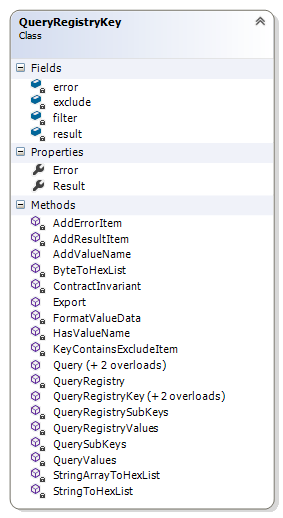
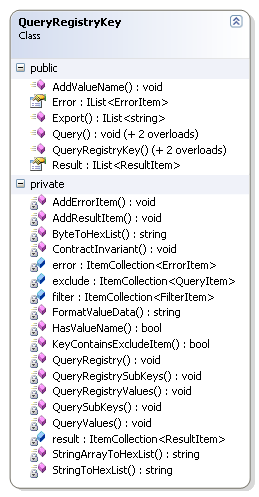
Added class diagram, changed layout for diagram

Changed region(s): [[0.0309, 0.0, 0.9884, 0.996], [0.6486, 0.2414, 0.7722, 0.332], [0.7722, 0.3018, 0.8649, 0.332]]

diff --git a/Guson.Registry/ReadOnlyDictionary.cs b/Guson.Registry/ReadOnlyDictionary.cs
@@ -19,7 +19,7 @@ namespace Guson.Registry
     /////// <typeparam name="TValue">The type of the values in the dictionary.</typeparam>
     /////// <remarks>
     /////// Class Diagram:
-    /////// <p><img src="..\images\ReadOnlyDictionaryNET45.png" alt="ReadOnlyDictionary Class Diagram" /></p>
+    /////// <p><img src="..\images\ReadOnlyDictionary.png" alt="ReadOnlyDictionary Class Diagram" /></p>
     /////// References:
     /////// <ul>
     ///////   <li><see href="http://msdn.microsoft.com/en-us/library/hh136548.aspx">IReadOnlyDictionary&lt;TKey, TValue&gt; Interface</see>.</li>

diff --git a/Guson.Registry/Controls/RootKeyComboBox.xaml.cs b/Guson.Registry/Controls/RootKeyComboBox.xaml.cs
@@ -12,6 +12,10 @@ namespace Guson.Registry.Controls
     /// <summary>
     /// Interaction logic for RootKeyComboBox.xaml
     /// </summary>
+    /// <remarks>
+    /// Class Diagram:
+    /// <p><img src="..\images\RootKeyComboBox.png" alt="RootKeyComboBox Class Diagram" /></p>
+    /// </remarks>
     public partial class RootKeyComboBox : UserControl
     {
         /// <summary>Initializes a new instance of the <see cref="RootKeyComboBox"/> class.</summary>

diff --git a/Guson.Registry/OpenRegistryKey.cs b/Guson.Registry/OpenRegistryKey.cs
@@ -19,6 +19,8 @@ namespace Guson.Registry
     /// <remarks>
     /// Class Diagram:
     /// <p><img src="..\images\OpenRegistryKey.png" alt="OpenRegistryKey Class Diagram" /></p>
+    /// Model Diagram:
+    /// <p><img src="..\images\OpenRegistryKeyModel.png" alt="OpenRegistryKey Class Diagram" /></p>
     /// References:
     /// <ul>
     ///   <li><see href="http://en.wikipedia.org/wiki/Windows_Registry#Root_keys">Root_keys</see>.</li>

diff --git a/Guson.Registry/Controls/RegisterKeyItem.xaml.cs b/Guson.Registry/Controls/RegisterKeyItem.xaml.cs
@@ -14,6 +14,10 @@ namespace Guson.Registry.Controls
     /// <summary>
     /// Interaction logic for RegisterKeyItem.xaml
     /// </summary>
+    /// <remarks>
+    /// Class Diagram:
+    /// <p><img src="..\images\RegisterKeyItem.png" alt="RegisterKeyItem Class Diagram" /></p>
+    /// </remarks>
     /// <example>
     /// Add user control
     /// <![CDATA[

diff --git a/README.md b/README.md
@@ -24,7 +24,7 @@ The XML documentation is used by a Sandcastle Help File Bulder project in the do
 - [ ] Clean unused/unnecessary code contacts
 - [ ] Test the user controls
 - [ ] Add NUnit test
-- [ ] Add class diagram with the main classes
-- [ ] Add class diagram for all help classes
+- [x] Add class diagram with the main classes
+- [x] Add class diagram for all help classes
 - [ ] Add $(PubDirectory) in _BeforeBuild.targets_
 - [x] Add a immutable _ReadOnlyDictionary<TKey, TValue>_ class
